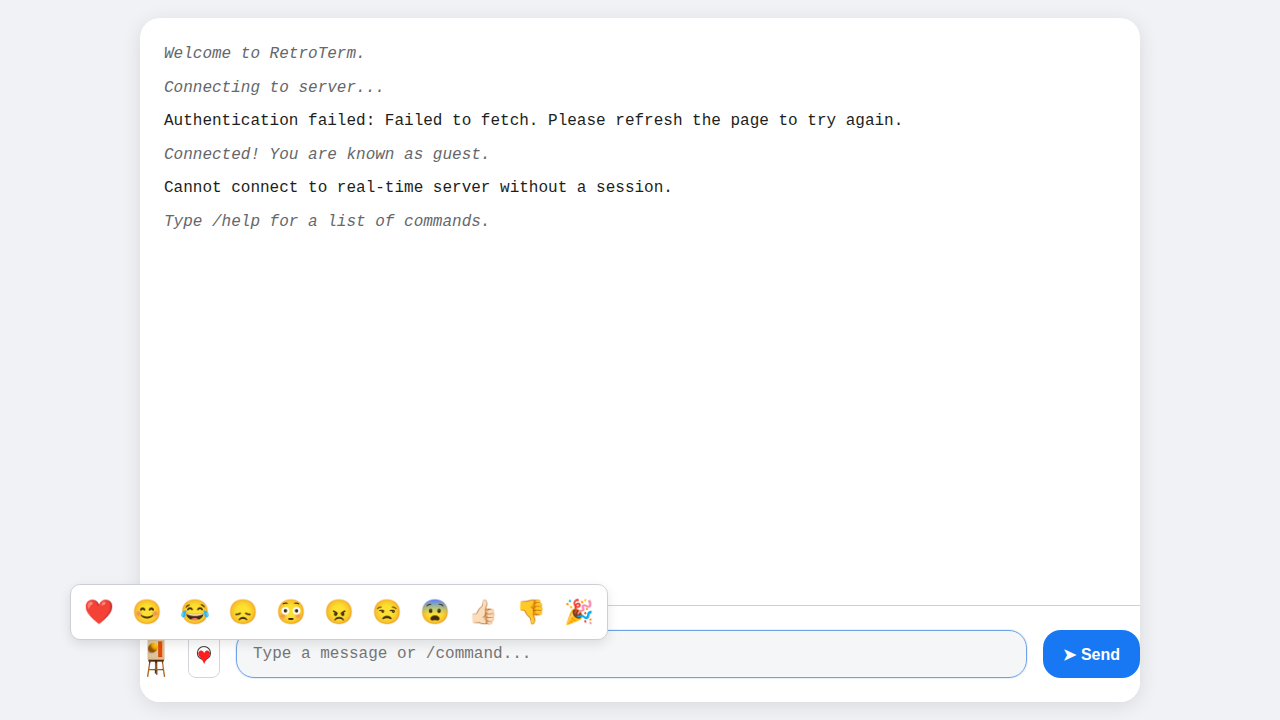
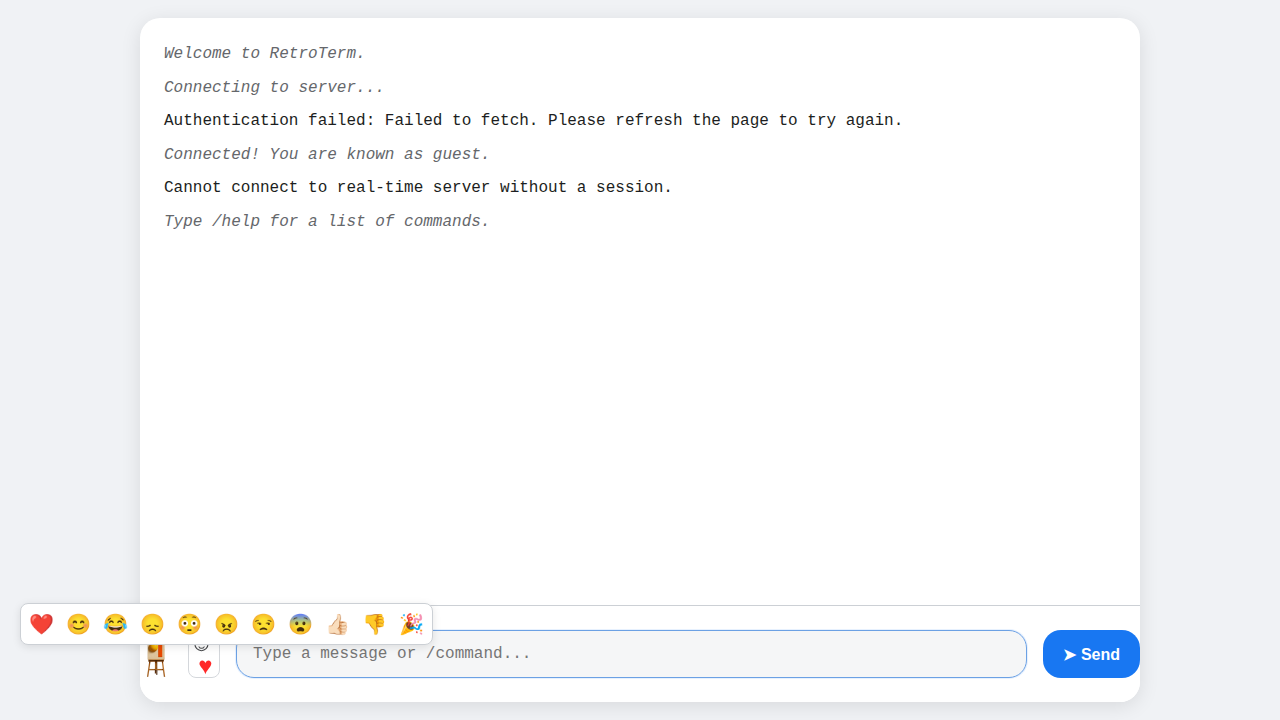
feat: Add reaction button and widget
This commit introduces a new reaction button to the chat interface, placed between the image upload button and the text input. The button displays Unicode glyphs for a smiley (☺) and a heart (♥), which are styled to be jauntily placed with a slight overlap.

When clicked, the button toggles a horizontal widget containing a selection of emoji reactions. Each reaction has a tooltip describing its meaning. The widget and its contents have been optimized for mobile displays.

Clicking a reaction sends it as a message in the chat and closes the widget. The widget also closes if the user clicks anywhere else on the screen.

This feature enhances user interaction by providing a quick way to send common emotional responses.

Changed region(s): [[0.0, 0.825, 0.4688, 0.9472]]

diff --git a/client/public/RetroTerm/style.css b/client/public/RetroTerm/style.css
@@ -363,30 +363,30 @@ body {
 
 #reaction-button .smiley {
     position: absolute;
-    top: 15%;
+    top: 25%;
     left: 50%;
-    transform: translateX(-50%);
+    transform: translate(-60%, -50%); /* Nudge left and up */
 }
 
 #reaction-button .heart {
     position: absolute;
-    bottom: 15%;
+    bottom: 25%;
     left: 50%;
-    transform: translateX(-50%);
+    transform: translate(-40%, 50%); /* Nudge right and down */
     color: #ff0000;
 }
 
 #reaction-widget {
     position: absolute;
-    bottom: 80px; /* Adjust as needed */
-    left: 70px; /* Adjust as needed */
+    bottom: 75px; /* Adjust as needed */
+    left: 20px;  /* Move further left */
     background: var(--container-bg);
     border: 1px solid var(--input-border);
-    border-radius: 10px;
-    padding: 8px;
-    box-shadow: 0 4px 12px var(--shadow-color);
+    border-radius: 8px;
+    padding: 4px; /* Reduced padding */
+    box-shadow: 0 2px 8px var(--shadow-color);
     display: flex;
-    gap: 8px;
+    gap: 4px; /* Reduced gap */
     z-index: 10;
 }
 
@@ -397,8 +397,8 @@ body {
 #reaction-widget button {
     background: transparent;
     border: none;
-    font-size: 24px;
-    padding: 5px;
+    font-size: 20px; /* Smaller emojis */
+    padding: 4px;
     cursor: pointer;
     border-radius: 5px;
     transition: background-color 0.2s ease;

diff --git a/client/public/RetroTerm/index.html b/client/public/RetroTerm/index.html
@@ -22,7 +22,7 @@
             </button>
             <button type="button" id="reaction-button" aria-label="Send reaction">
                 <span class="smiley">☺</span>
-                <span class="heart">♥</span>
+                <span class="heart">&#x2665;&#xfe0e;</span>
             </button>
             <input type="text" id="chat-input" placeholder="Type a message or /command..." autocomplete="off" autofocus>
             <button type="submit" id="send-button">➤ Send</button>
